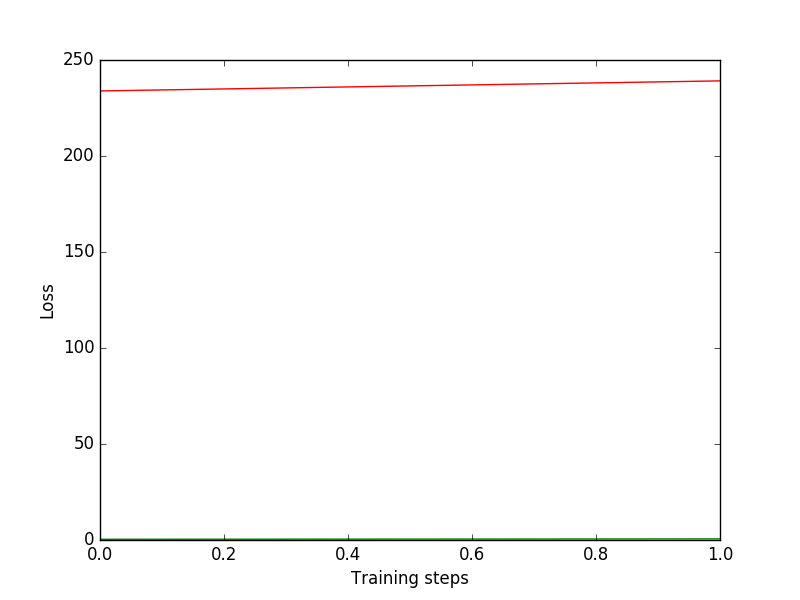
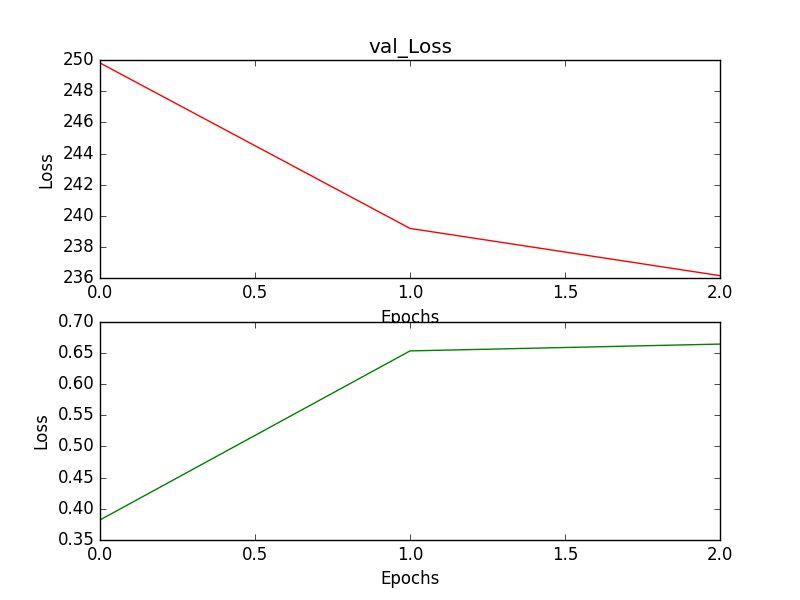
Final commit

diff --git a/bert_classifier.py b/bert_classifier.py
@@ -194,6 +194,7 @@ class ClassificationModel:
         self.model.train()
         for e in range(epochs):
             loss_sum = 0
+            temp_step = 0
             print("Epoch {e}".format(e=e))
             f1, acc = self.val()
             print("\nF1 score: {f1}, Accuracy: {acc}".format(f1=f1, acc=acc))
@@ -212,7 +213,7 @@ class ClassificationModel:
                 # self.plt_y.append(loss.item())
                 # self.plt_x.append(nb_tr_steps)
                 # self.save_plot(plot_path)
-
+                temp_step += 1
                 # nb_tr_steps += 1
                 self.optimizer.step()
                 self.optimizer.zero_grad()
@@ -220,7 +221,7 @@ class ClassificationModel:
                 if self.gpu:
                     torch.cuda.empty_cache()
             # self.plt_x.append(e) already append before
-            self.plt_y.append(loss_sum)
+            self.plt_y.append(loss_sum/temp_step)
             self.save_plot(plot_path)
 
     def val(self, batch_size=32, test=False):
@@ -258,13 +259,13 @@ class ClassificationModel:
         import matplotlib.pyplot as plt
         fig, axs = plt.subplots(2)
         axs[0].plot(self.plt_x, self.plt_y, 'r')
-        axs[0].set_title('Loss')
+        axs[0].set(xlabel='Epochs', ylabel='Loss')
+
         axs[1].plot(self.plt_x, self.plt_y_val, 'g')
-        axs[0].set_title('val_Loss')
+        axs[1].set(xlabel='Epochs', ylabel='Val_Loss')
 
         # ax.set(xlabel='Training steps', ylabel='Loss')
-        for ax in axs.flat:
-            ax.set(xlabel='Epochs', ylabel='Loss')
+        # for ax in axs.flat:
 
         # plt.subplot(2, 1, 1)
         # plt.plot(x1, y1, 'o-')
